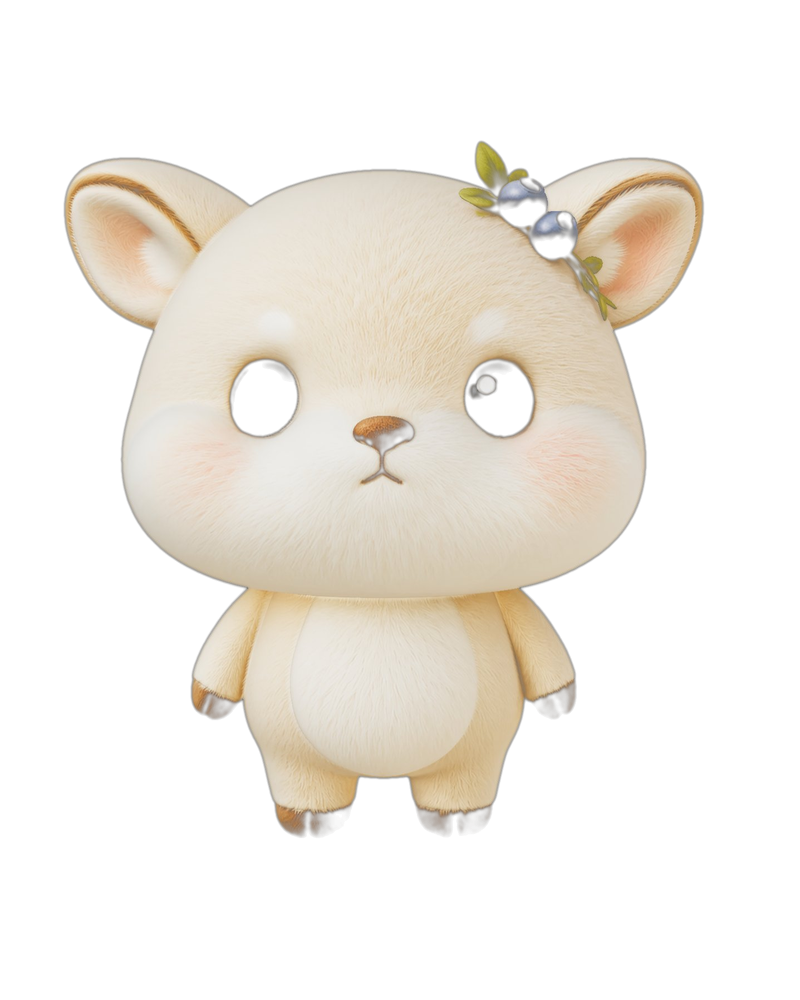
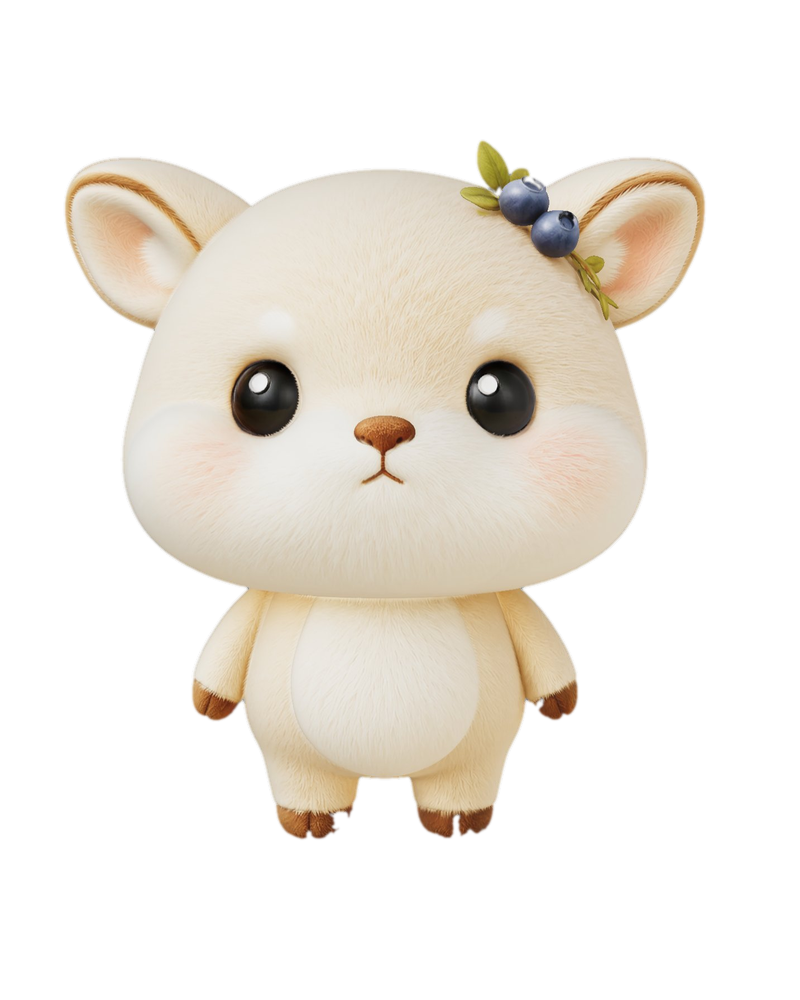
狍游记 V1.5.8
两小只抠图改为flood-fill背景法：保留内部深色五官(眼睛/鼻子)，不再误删成瞎子；加核心色外扩去灰边

diff --git a/index.html b/index.html
@@ -1187,7 +1187,7 @@ input[type=range]{width:100%;accent-color:var(--caramel);}
 </div>
 
 <script>
-const APP_VER='1.5.7';
+const APP_VER='1.5.8';
 const APP_DATE='2026-09-21';
 try{document.getElementById('appVer').textContent='V'+APP_VER;}catch(e){}
 const KEY='paoyouji_state_v2';
